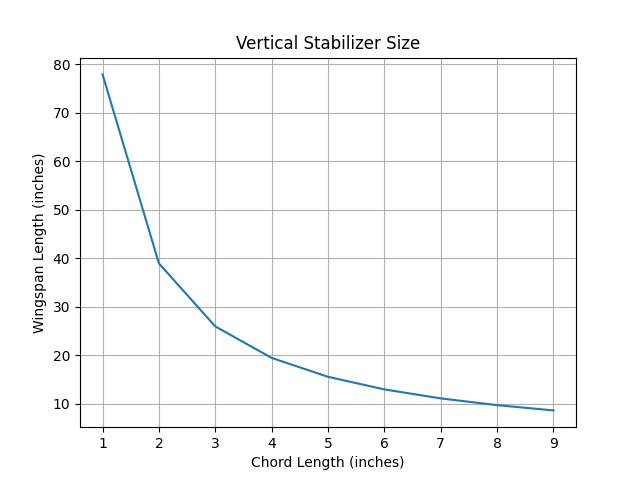
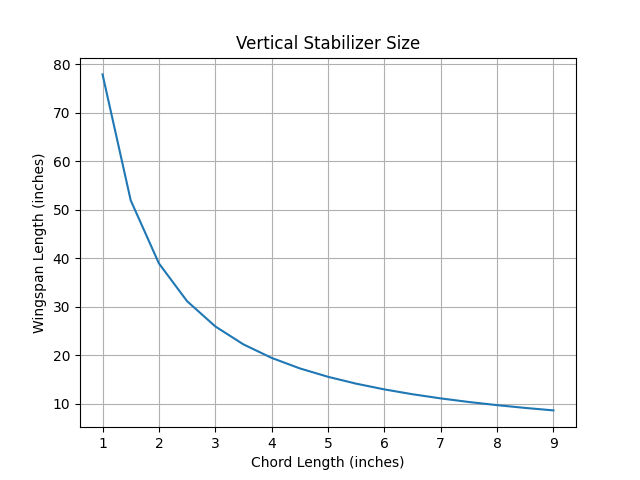
more edits on calculations

diff --git a/vertical_stabilizer.py b/vertical_stabilizer.py
@@ -34,7 +34,7 @@ S_VT=C_VT*wingspan_inch*S_ref_inch/L_VT
 print('Surface area of the Vertical Tail is =', S_VT)
 
 # Estimated Vertical Tail chord and length
-VT_chord=np.array([1,2,3,4,5,6,7,8,9]) * ureg.inch
+VT_chord=np.array([1,1.5,2,2.5,3,3.5,4,4.5,5,5.5,6,6.5,7,7.5,8,8.5,9]) * ureg.inch
 #print('Chord of Vertical Tail =', HT_chord)
 
 VT_length=S_VT/VT_chord
